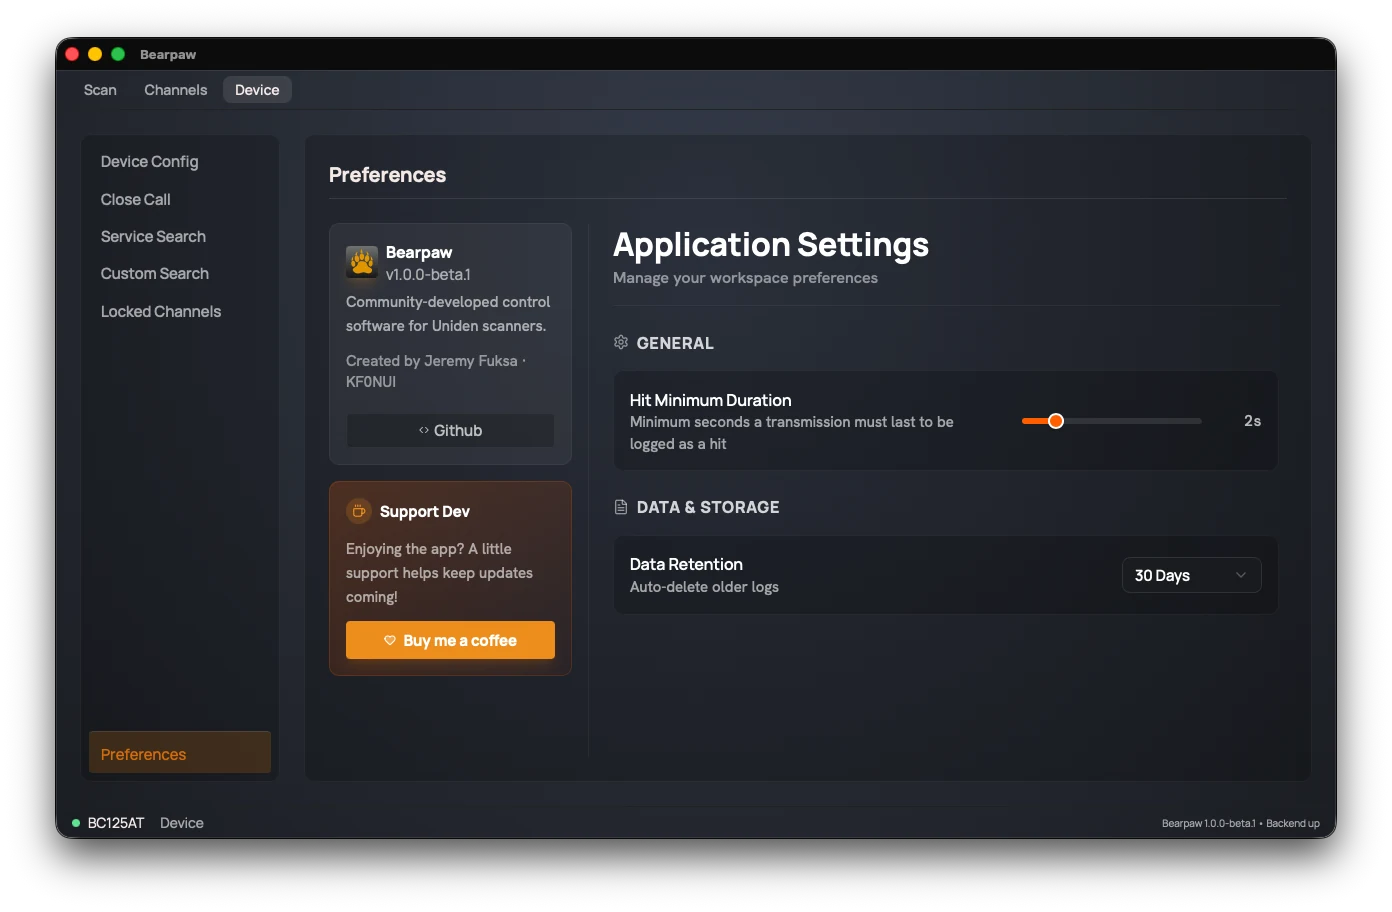
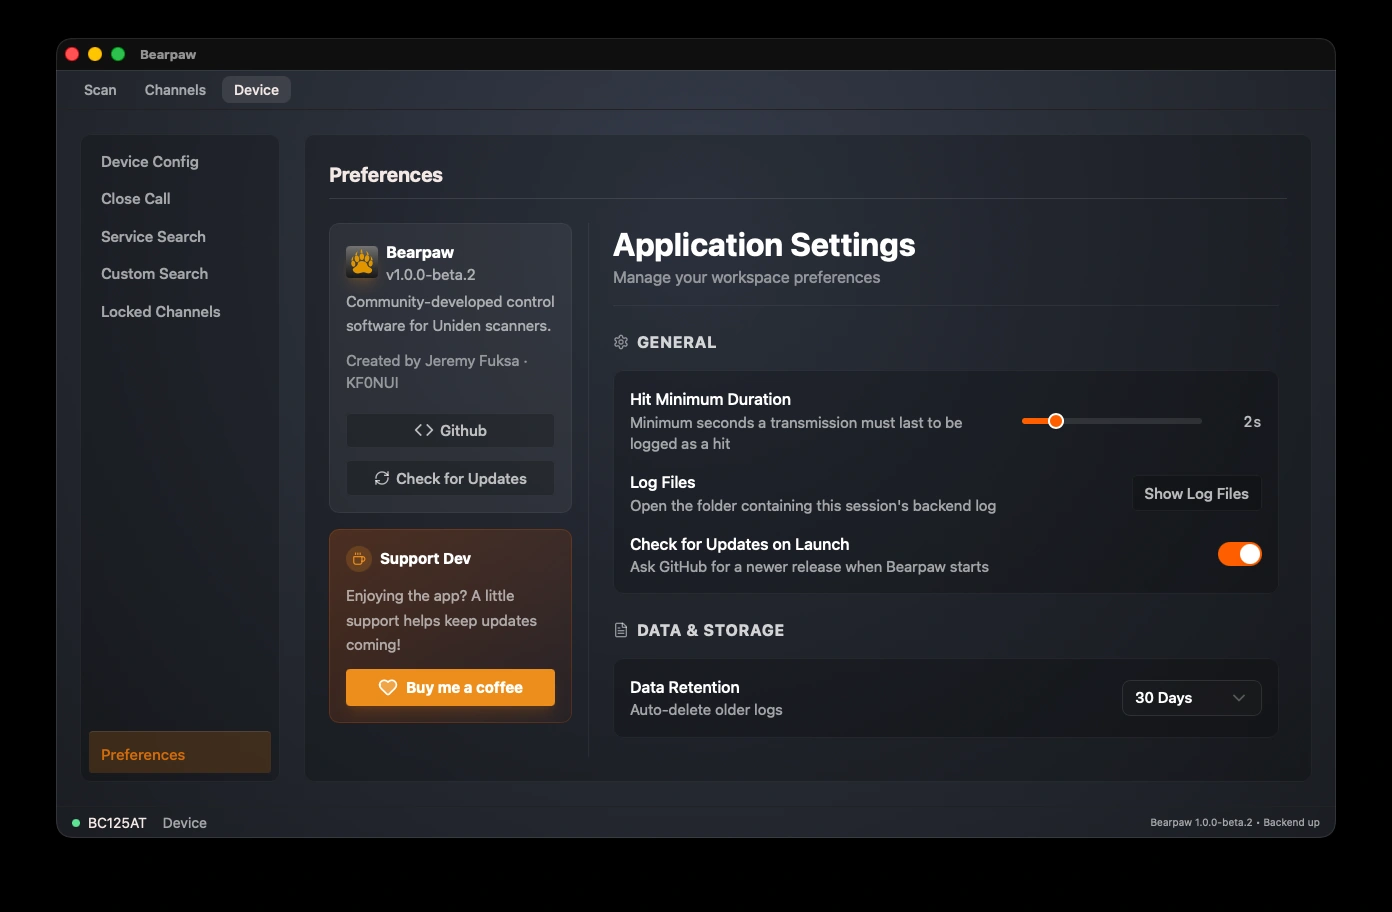
docs(site): reshoot the three stale Device screenshots
Replaces the 23 Jul captures on the pages changed by 2026-08-03's work.
All three show the state the new copy describes: the Close Call dropdown
open on four modes, the Priority dropdown open on four modes, and the
Preferences page with the update-check toggle.

Encoded at 1392x912 to match the other five assets exactly — the pages
would reflow at any other size. WebP q95/method=6, which lands within a
kilobyte of the originals for the two comparable shots (39056 -> 38236,
48646 -> 47388). Preferences grew (55676 -> 67282) because the page now
carries more UI. Lossless was 592 KB, an order of magnitude too large.

Alt text updated on all three — each screenshot now shows an open dropdown
or controls the old text didn't describe, and alt text that under-describes
its image is worse than none for a screen-reader user trying to follow
along.

The new Preferences shot surfaced two controls the page never documented,
both now covered:

- Show Log Files, which opens the backend log folder. Added to the settings
  list and pointed at the troubleshooting page, since that's when you'd
  want it.
- A Check for Updates button in the About card. Verified it dispatches the
  same handler as Help -> Check for Updates (DeviceTab.tsx:1538) rather
  than assuming from the label.

Toolchain note for whoever reshoots next: this machine has no cwebp or
ImageMagick, sips refuses webp as an output format, and macOS ImageIO
cannot encode it either (only decode). Python PIL can, and is what
[…]

diff --git a/site/docs/preferences.html b/site/docs/preferences.html
@@ -55,7 +55,7 @@
         <figure class="docs-figure">
           <img
             src="assets/device-preferences.webp"
-            alt="The Preferences section: an About card with the app version and a GitHub link, a Buy me a coffee card, and Application Settings for Hit Minimum Duration and Data Retention."
+            alt="The Preferences section: an About card with the app version, a GitHub link and a Check for Updates button; a Support Dev card with a Buy me a coffee button; and Application Settings holding Hit Minimum Duration, a Show Log Files button, a Check for Updates on Launch toggle, and Data Retention."
           />
           <figcaption>Preferences — the app's own settings.</figcaption>
         </figure>
@@ -67,6 +67,12 @@
             <a href="scan.html#recent-hits">activity log</a>. Raise it to filter
             out brief static bursts; lower it to catch quick exchanges. It's an
             app-side logging filter, separate from how the scanner behaves.
+          </li>
+          <li>
+            <strong>Show Log Files</strong>: opens the folder holding this
+            session's backend log on your computer. Useful when
+            <a href="troubleshooting.html">troubleshooting</a> a connection
+            problem, or when attaching a log to a bug report.
           </li>
           <li>
             <strong>Data Retention</strong>: 30 Days, 90 Days, or 1 Year. How long
@@ -90,9 +96,12 @@
           </p>
         </div>
         <p>
-          The page also has an <strong>About</strong> card (the app version, and a
-          link to the project on GitHub) and a
-          <strong>Buy me a coffee</strong> link to support the developer.
+          The page also has an <strong>About</strong> card — the app version, a
+          link to the project on GitHub, and a
+          <strong>Check for Updates</strong> button that runs the same check as
+          the Help menu and always tells you the result, even when you're already
+          up to date. Below it, a <strong>Buy me a coffee</strong> link to support
+          the developer.
         </p>
         <nav class="docs-pagination" aria-label="Guide pages">
           <a class="page-prev" href="locked-channels.html"><span class="page-dir">← Previous</span><span class="page-title">Locked Channels</span></a>

diff --git a/site/docs/device-config.html b/site/docs/device-config.html
@@ -64,7 +64,7 @@
         <figure class="docs-figure">
           <img
             src="assets/device-config.webp"
-            alt="The Device Config section: Audio & Power (Volume, Squelch, Battery Saver), Display & System (Backlight, Contrast, Key Beep), Scanning Logic (Priority Mode, Weather Alert Priority), and a read-only Device Information card."
+            alt="The Device Config section with the Priority Mode dropdown open, listing Off, On, Plus, and DND. Around it: Audio & Power (Volume, Squelch, Battery Saver), Display & System (Backlight, Contrast, Key Beep), a Weather Alert Priority toggle, and a read-only Device Information card."
           />
           <figcaption>Device Config — the scanner's core settings.</figcaption>
         </figure>

diff --git a/site/docs/close-call.html b/site/docs/close-call.html
@@ -65,7 +65,7 @@
         <figure class="docs-figure">
           <img
             src="assets/device-close-call.webp"
-            alt="The Close Call section: a Mode dropdown, Lockout Hits While Scanning toggle, Alert Beep and Alert Light toggles, and Enabled Bands switches for VHF Low, Air, VHF High, UHF, and 800 MHz."
+            alt="The Close Call section with the Mode dropdown open, listing Off, CC DND, CC Priority, and CC Only. Behind it: a Lockout Hits While Scanning toggle, Alert Beep and Alert Light toggles, and Enabled Bands switches for VHF Low, Air, VHF High, UHF, and 800 MHz."
           />
           <figcaption>Close Call — nearby-strong-signal detection.</figcaption>
         </figure>
